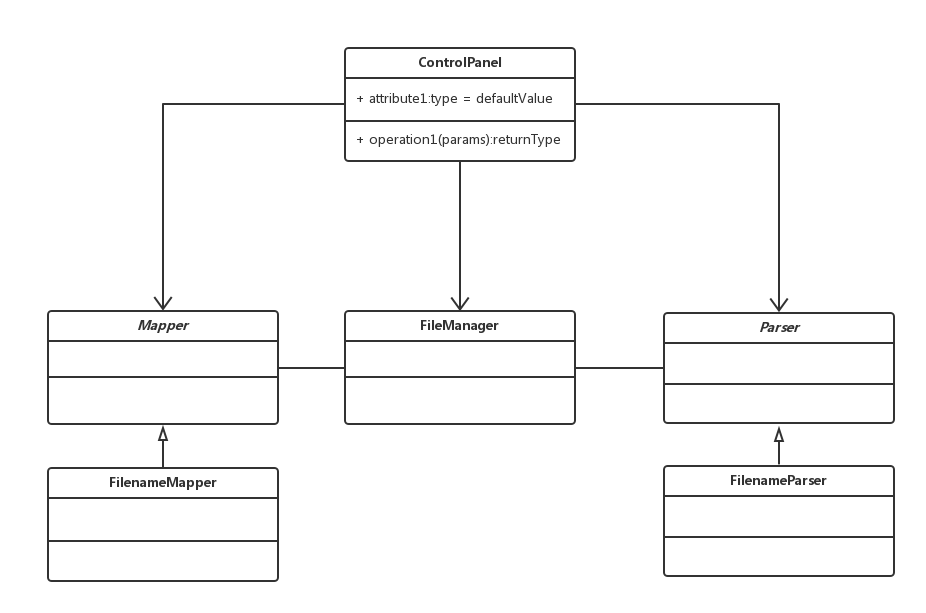
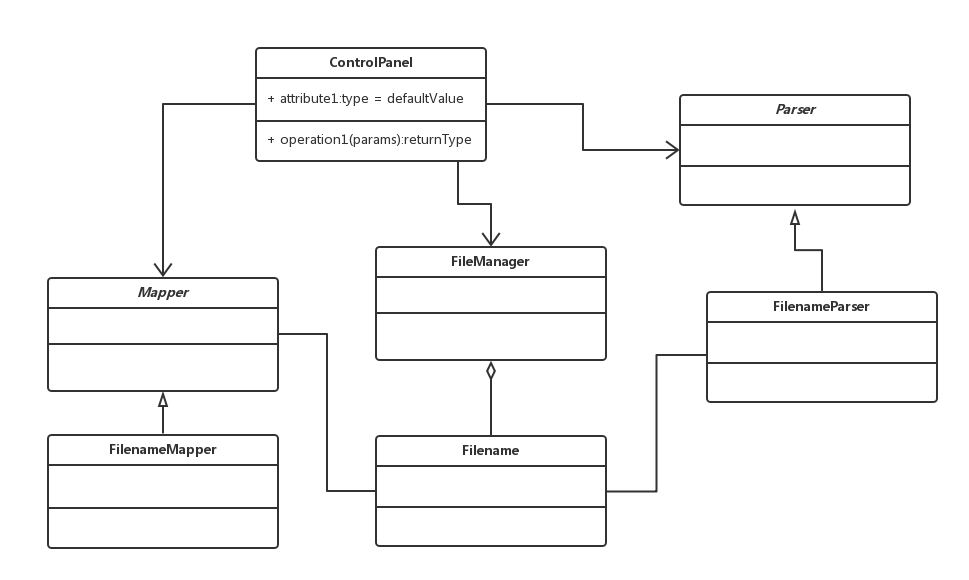
Update class diagram

diff --git a/module2/problems/module2_oop_example.md b/module2/problems/module2_oop_example.md
@@ -86,7 +86,11 @@
 
 ![class diagram 1](https://github.com/rickchung/2016_Python_Test/blob/master/module2/problems/m2_class_diagram_1.png)
 
->第一次畫 UML 圖的時候會覺得很混亂看不懂是正常的，你可能會需要邊看符號對應表邊理解到底 class diagram 在畫什麼，但多畫幾次就會慢慢習慣 ( ´ ▽ ` )ﾉ
+有幾件要注意的事情：
+
+- 第一次畫 UML 圖的時候會覺得很混亂看不懂是正常的，你可能會需要邊看符號對應表邊理解到底 class diagram 在畫什麼，但多畫幾次就會慢慢習慣 ( ´ ▽ ` )ﾉ
+- 因為我們的問題其實有點小，所以圖其實不會太複雜，主要是給大家當做入門指引
+- 我畫的圖可能沒有很好，抱歉 (´Д` )
 
 ### Finding Associations Between Objects
 
